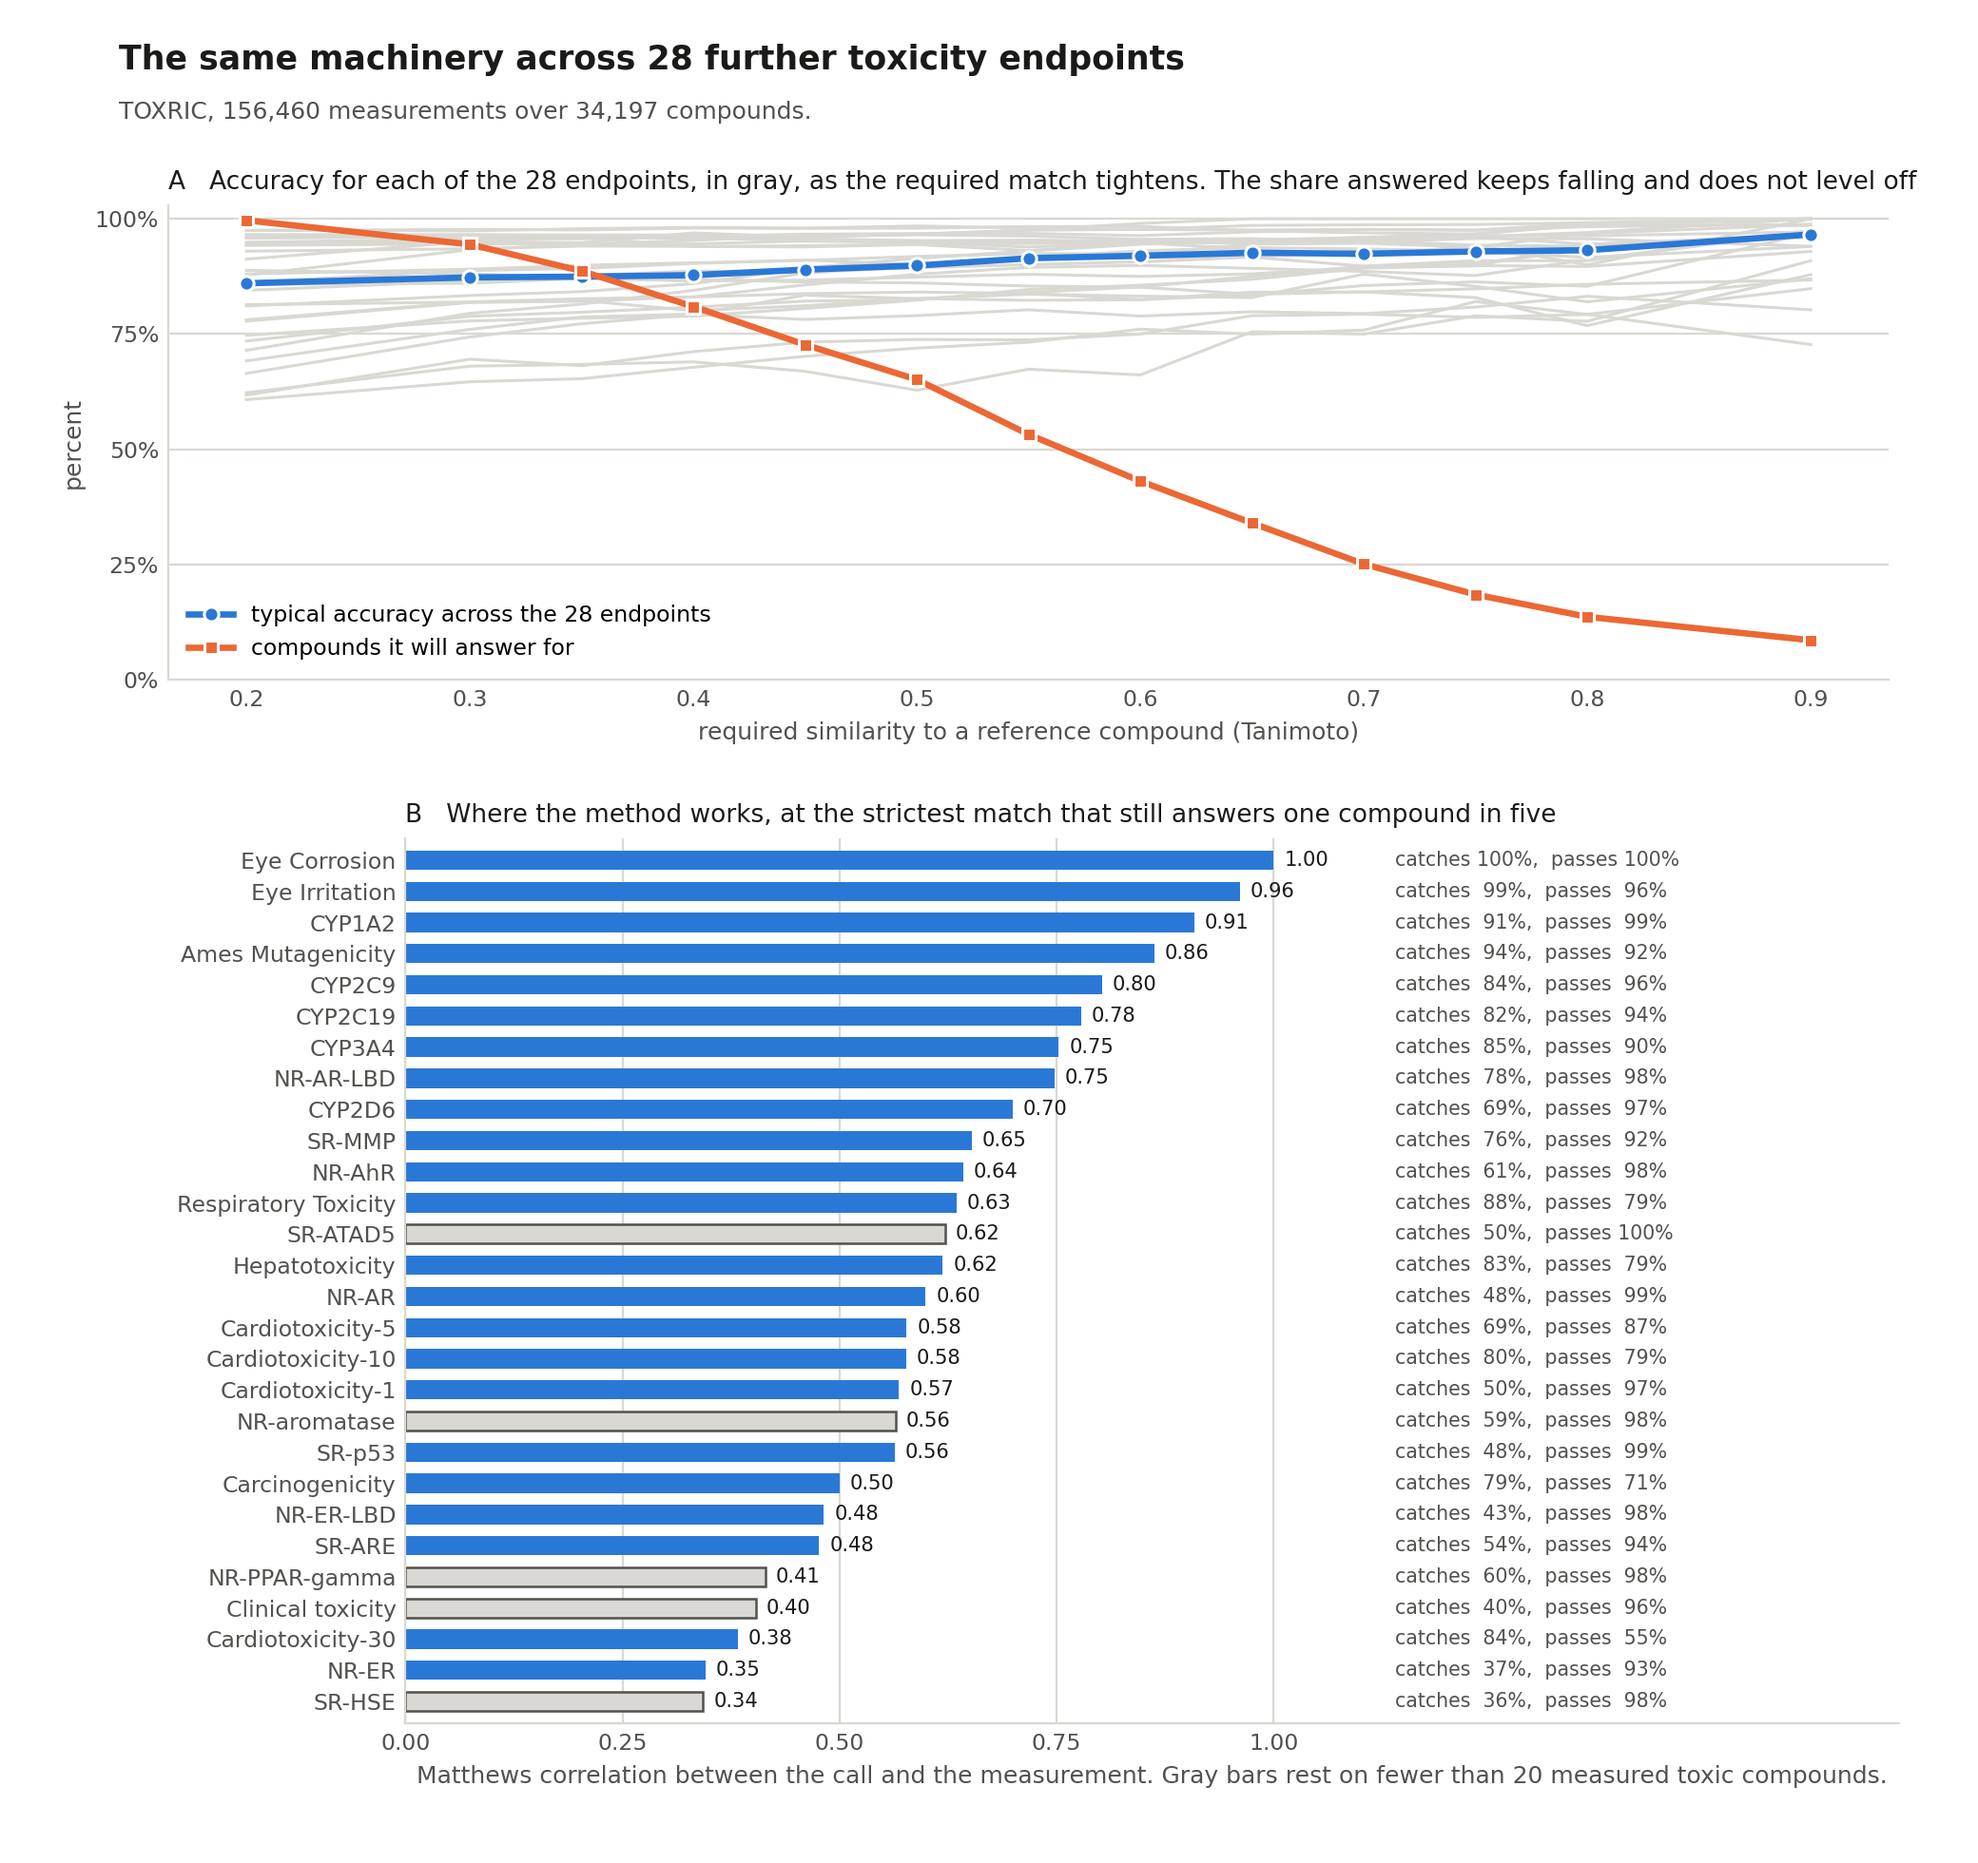
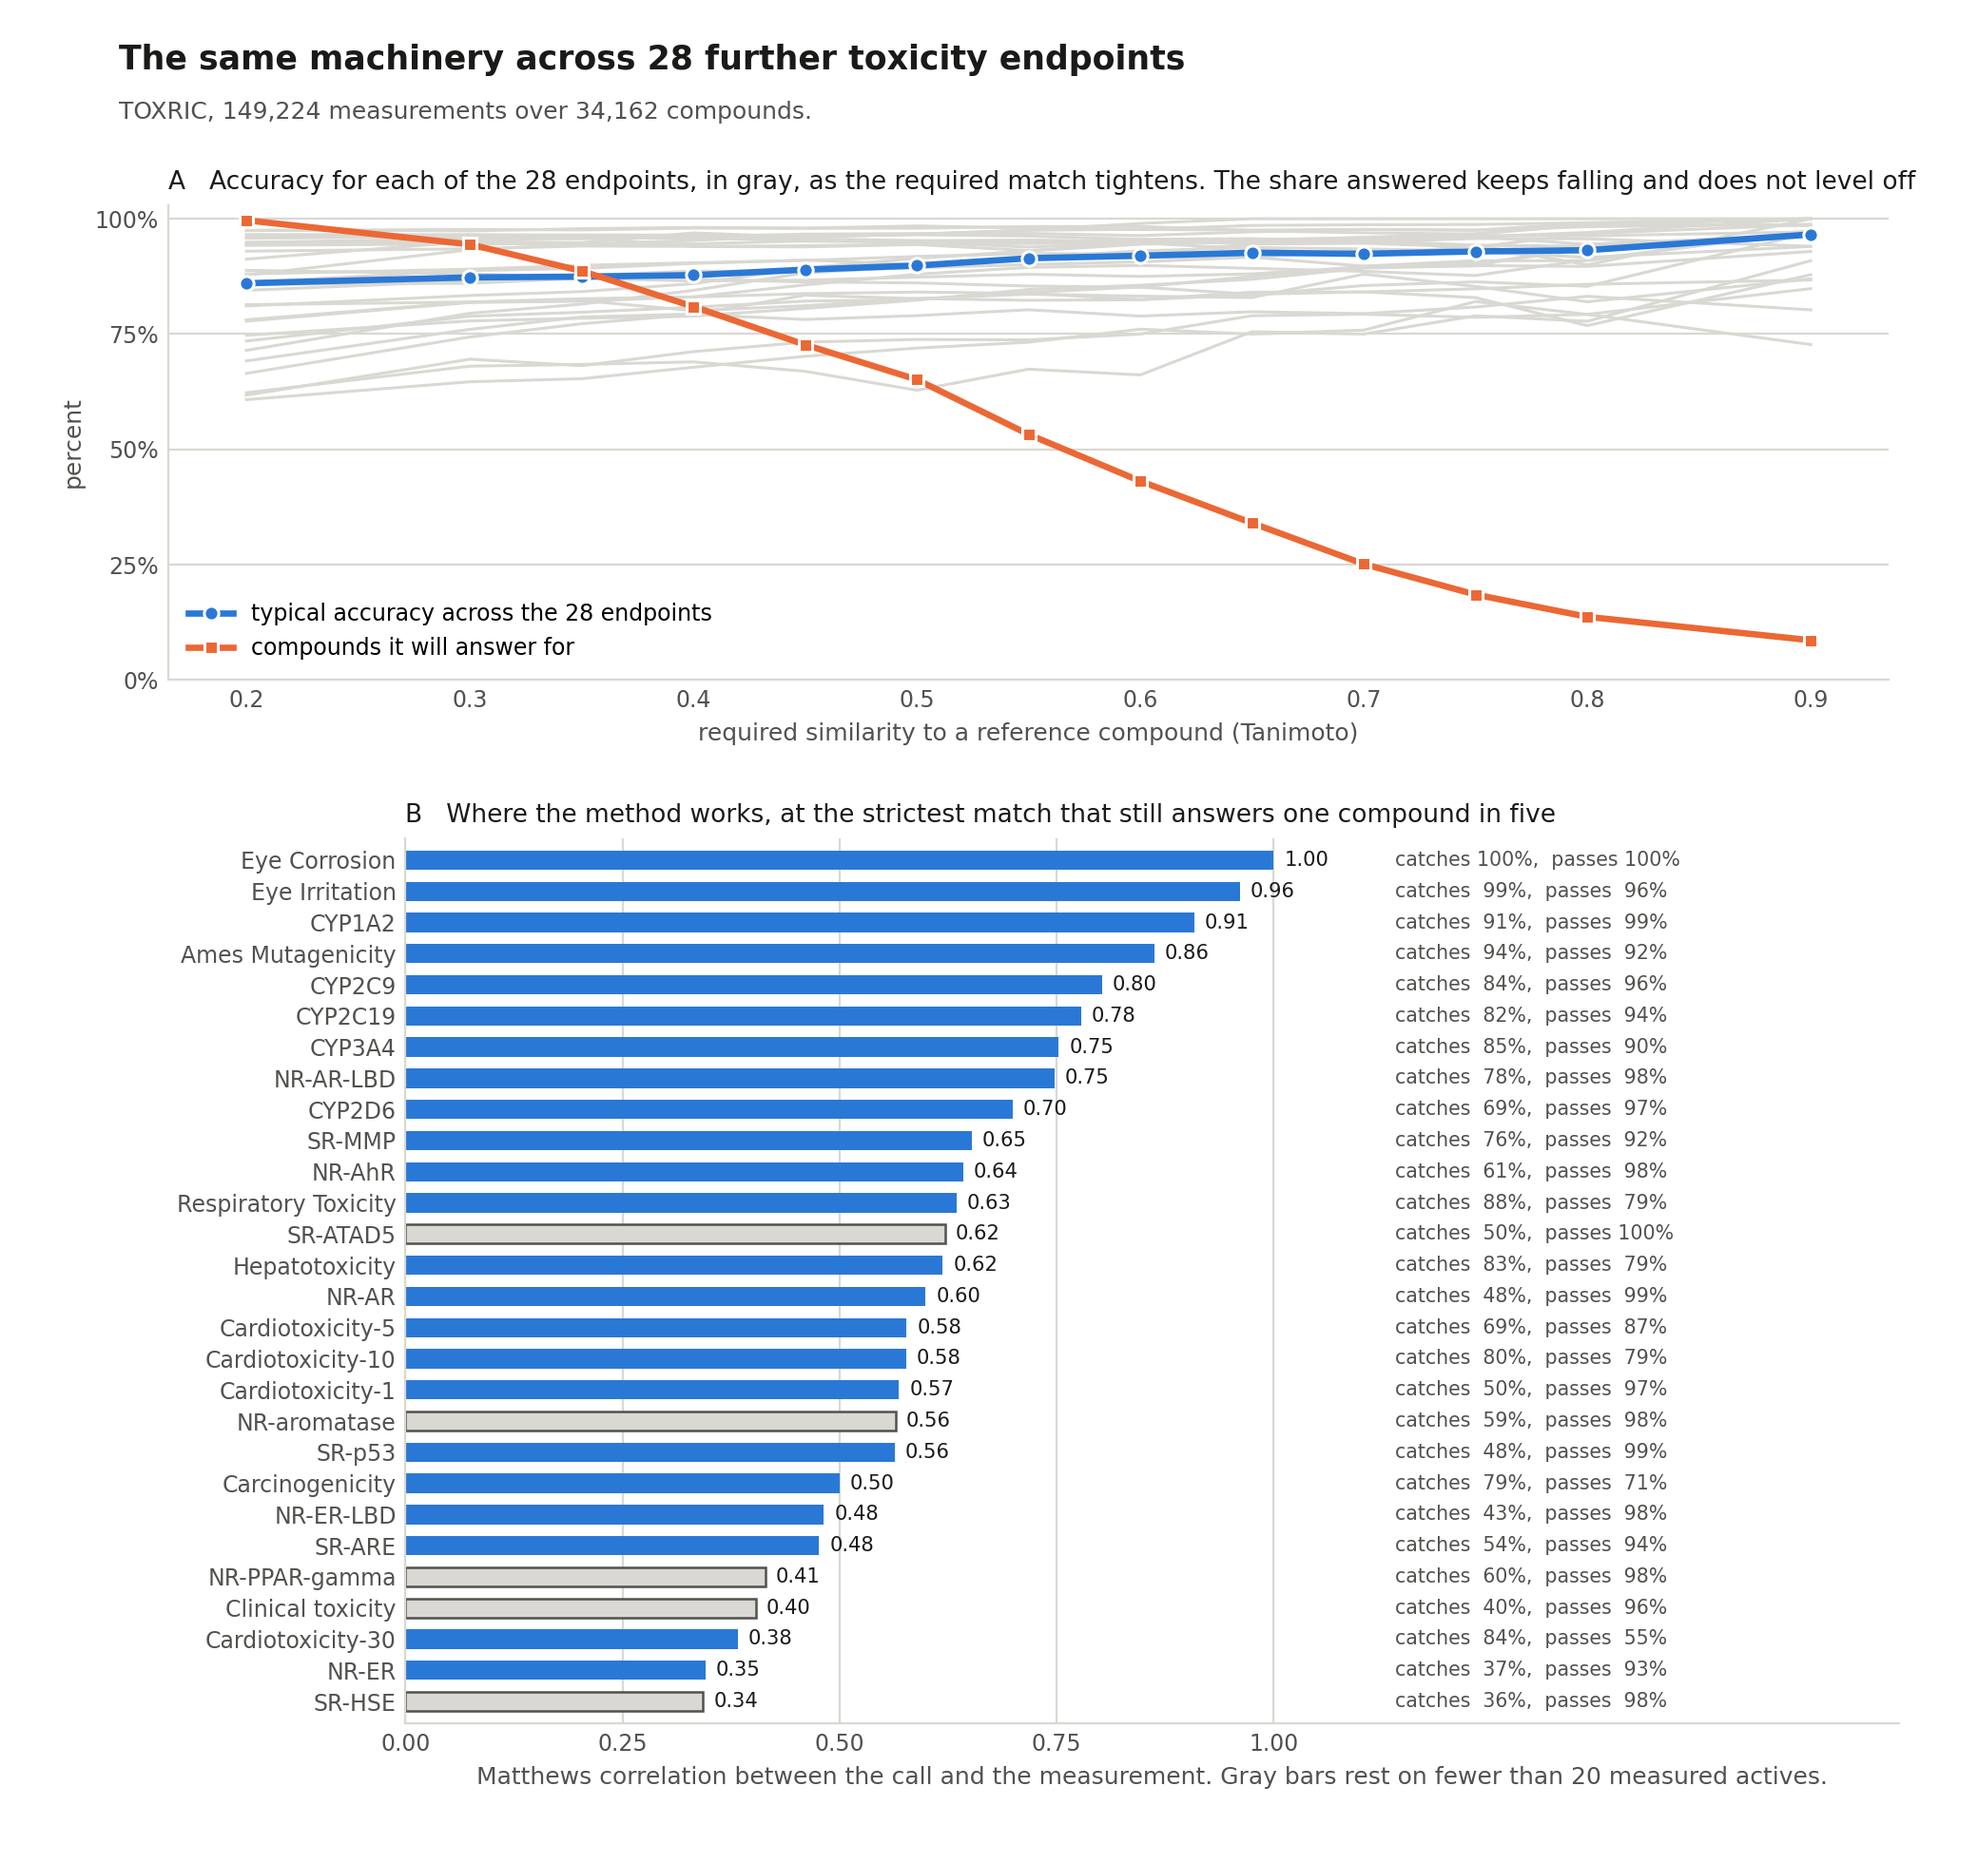
Correct the measurement count basis and the active/inactive wording (#1)
* Correct the measurement count basis and the active/inactive wording

A reviewer found that the published measurement total was a raw TOXRIC record
count taken before duplicate resolution. toxric_endpoints.csv carries `n`, the
pre-deduplication record count, beside `unique`, the count after resolving to
one measurement per compound and endpoint, and every analysis uses `unique`.

The figure caption said 156,460 measurements over 34,197 compounds. The correct
pair for the 28 scored endpoints is 149,224 over 34,162, confirmed two ways: by
summing the `unique` column, and by counting non-null cells in the curated
matrix with the blank-InChIKey row and the non-endpoint "Canonical SMILES"
column excluded.

Also corrects toxic/harmless to active/inactive. These endpoints measure
activity in an assay and the stronger words overstate what the labels establish.
The manuscript is being changed the same way.

- figures/make_figures_paper.py: caption and the panel B axis label
- docs/consortium_sweeps.png, docs/endpoints.png: re-rendered; both are
  pixel-identical to the corrected renders in the Toxicity project, so only the
  two text labels moved and no plotted value changed
- README.md: active/inactive wording, and the reference-set sweep no longer
  reads as a flat accuracy trend. Accuracy climbs from 85.4% to 90.9% by 610
  voting compounds and then holds between 91.2% and 92.1%.
- figures/README.md: the standing rule about counts
[…]

diff --git a/figures/make_figures_paper.py b/figures/make_figures_paper.py
@@ -160,7 +160,7 @@ def fig_endpoints(res):
              "The same machinery across 28 further toxicity endpoints",
              fontsize=12.5, color=INK, ha="left", fontweight="bold")
     fig.text(0.06, 0.936,
-             "TOXRIC, 156,460 measurements over 34,197 compounds.",
+             "TOXRIC, 149,224 measurements over 34,162 compounds.",
              fontsize=9, color=MUTED, ha="left")
 
     a = fig.add_axes([0.085, 0.635, 0.87, 0.255])
@@ -218,7 +218,7 @@ def fig_endpoints(res):
     b.set_ylim(-0.7, len(op) - 0.3)
     b.set_xticks([0, 0.25, 0.5, 0.75, 1.0])
     b.set_xlabel("Matthews correlation between the call and the measurement. "
-                 "Gray bars rest on fewer than 20 measured toxic compounds.",
+                 "Gray bars rest on fewer than 20 measured actives.",
                  fontsize=9)
     b.set_title("B   Where the method works, at the strictest match that still "
                 "answers one compound in five", fontsize=9.5, color=INK,

diff --git a/figures/make_figure6_useful.py b/figures/make_figure6_useful.py
@@ -59,7 +59,7 @@ def main():
     fig.text(0.055, 0.978, "Score a library, set the worst aside", fontsize=14,
              color=INK, ha="left", fontweight="bold")
     fig.text(0.055, 0.950,
-             "34,197 compounds, 28 endpoints. Every number is measured on "
+             "34,162 compounds, 28 endpoints. Every number is measured on "
              "compounds the score was never fitted on.",
              fontsize=9.5, color=MUTED, ha="left", va="top")
 

diff --git a/README.md b/README.md
@@ -71,8 +71,9 @@ always reported.
 
 Growing the reference set is the one move that does not cost anything. Panel C:
 from 127 to 5,953 voting compounds, meaning those carrying a measured LD50,
-accuracy holds between 85.4 and 92.1 percent while the share of compounds
-answered rises from 3 to 47 percent. **A bigger
+the share of compounds answered rises from 3 to 47 percent. Accuracy is not
+flat across that range: it climbs from 85.4 to 90.9 percent by 610 voting
+compounds, then holds between 91.2 and 92.1 percent. **A bigger
 shared reference set buys reach, not accuracy**, which is why pooling is worth
 something to everyone who contributes.
 
@@ -104,9 +105,9 @@ compounds answered for keeps falling to 8.6% at 0.90 and never levels off, so
 the axis runs to zero rather than cutting that curve off.
 
 **Panel B** ranks the 28 endpoints by the Matthews correlation between the call
-and the measurement, with the share of measured toxic compounds caught and the
-share of measured harmless compounds passed printed beside each bar. Gray bars
-rest on fewer than 20 measured toxic compounds and are too thin to rank.
+and the measurement, with the share of measured actives caught and the
+share of measured inactives passed printed beside each bar. Gray bars
+rest on fewer than 20 measured actives and are too thin to rank.
 
 Percent correct is not reported, and no majority-class comparison is drawn. These
 labels are lopsided, 87 to 13 on CYP2D6, and that ratio records which compounds
@@ -388,9 +389,9 @@ The method it returns to:
 > [doi:10.1021/ci034080c](https://doi.org/10.1021/ci034080c)
 
 The manuscript rebuilds that 2003 consortium method on public data twenty three
-years on, extends it unchanged to 28 further toxicity endpoints, and adds
-cross-family reach as a second signal computed from two-dimensional structure
-alone.
+years on, extends it to 28 further toxicity endpoints with only the required
+similarity set per endpoint, and adds cross-family reach as a second signal
+computed from two-dimensional structure alone.
 
 Every figure in the manuscript is redrawn by the scripts in `figures/`, from the
 measured result files that ship beside them in `figures/data/`:

diff --git a/figures/README.md b/figures/README.md
@@ -46,3 +46,22 @@ that run rather than editing them:
 TOXPRED_FIGURE_DATA=/path/to/results TOXPRED_FIGURE_OUT=/tmp/figs \
   python figures/make_figures_paper.py
 ```
+
+## Counts: check what the column counts
+
+Never take a count from a summary column without checking what that column
+counts. On 1 October 2026 a reviewer caught a measurement total that was a raw
+record count: `toxric_endpoints.csv` carries `n`, the TOXRIC record count
+**before** duplicate resolution, beside `unique`, the count after resolving to
+one measurement per compound and endpoint. Every analysis uses `unique`. A
+script summed `n`, asserted the total, and so pinned the wrong basis in place
+for weeks, and the number reached a figure caption and the site.
+
+Two habits follow:
+
+- Where a script asserts a count, the assertion records its basis in a comment,
+  and where two bases exist, record **both** so neither can be mistaken for the
+  other.
+- Any number taken from a README or a handoff document is recomputed from the
+  data or the code before it is published. A number that has been copied once
+  has usually been copied twice.
